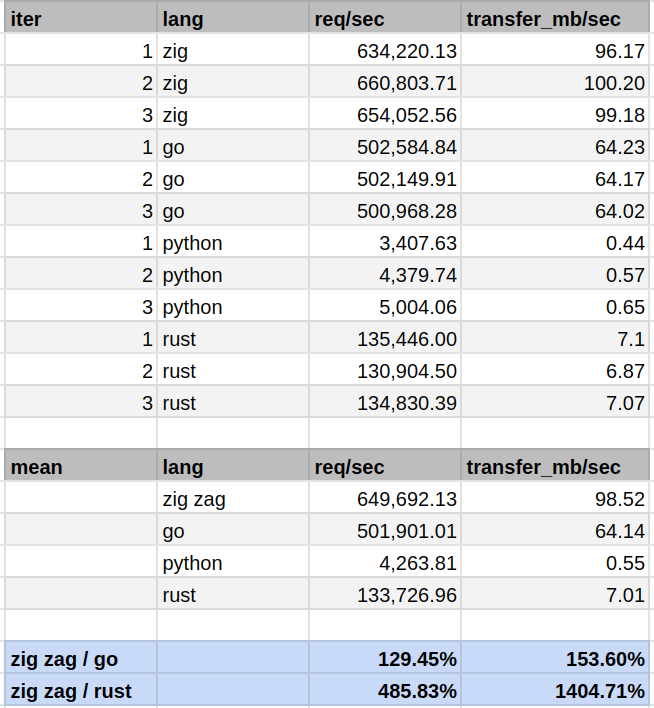
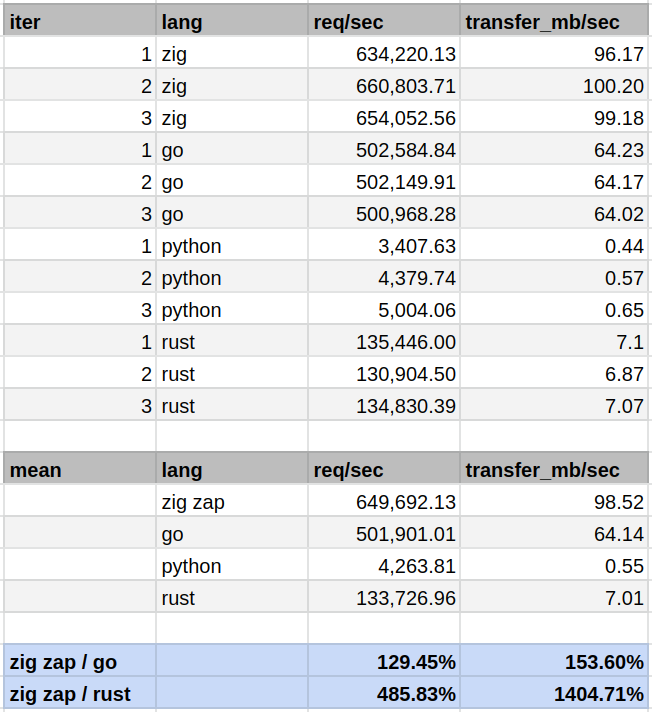
fixed typo in charts and texts

diff --git a/README.md b/README.md
@@ -16,7 +16,7 @@ framework](https://facil.io).
 
 Here's what works:
 
-- **Super easy build process**: zag's `build.zig` fetches git sub-modules,
+- **Super easy build process**: zap's `build.zig` fetches git sub-modules,
   applies a patch to facil.io's logging for microsecond precision, builds and
   optionally runs everything.
   - _tested on Linux and macOS (arm, M1)_
@@ -49,8 +49,8 @@ But, how fast is it? Being blazingly fast is relative. When compared with a
 simple GO HTTP server, a simple zig zap HTTP server performed really good on my
 machine:
 
-- zig zag was nearly 30% faster than GO
-- zig zag had over 50% more throughput than GO
+- zig zap was nearly 30% faster than GO
+- zig zap had over 50% more throughput than GO
 
 **Update**: I was intrigued comparing to a basic rust HTTP server.
 Unfortunately, knowing nothing at all about rust, I couldn't find one and hence
@@ -67,7 +67,7 @@ mutexes.
 
 ![](wrk_table_summary.png)
 
-![](wrk_summary.png)
+![](wrk_charts_summary.png)
 
 So, being somewhere in the ballpark of basic GO performance, zig zap seems to be
 ... of reasonable performance 😎.
@@ -366,7 +366,7 @@ pub fn main() !void {
 
 The following only shows the GET functionality implemented on both the `/user/`
 and the `/list` endpoints. See [endpoints](examples/endpoints/) for a complete
-example, including a HTML + JavaScript frontend.
+example, including an HTML + JavaScript frontend.
 
 [`main.zig`](examples/endpoints/main.zig):
 
